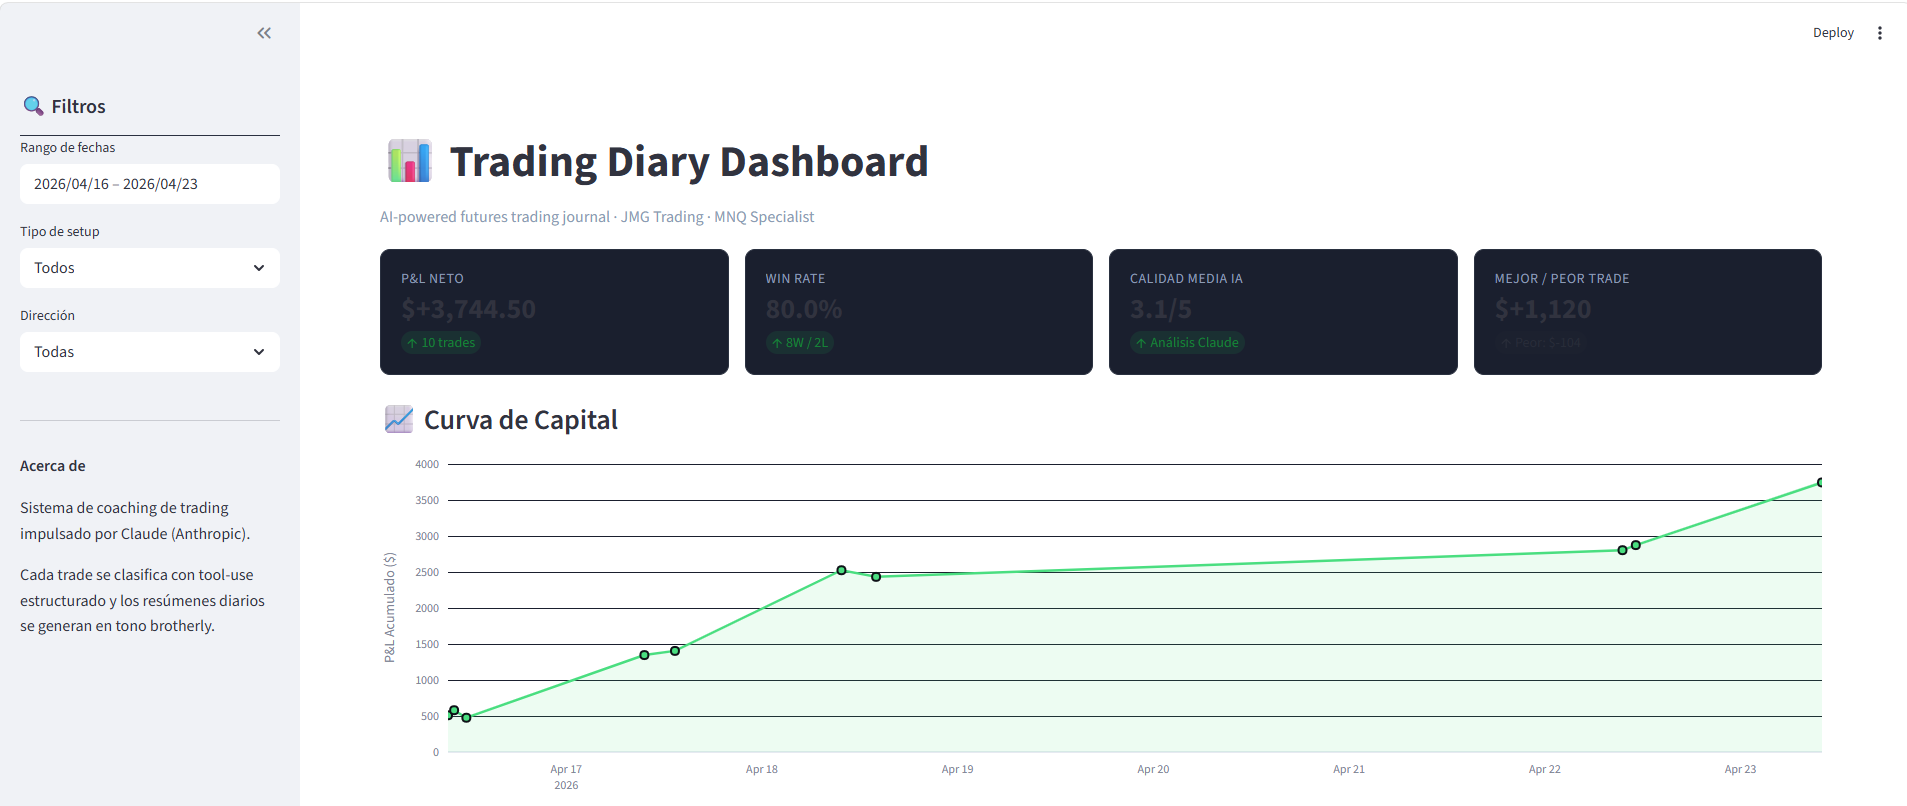
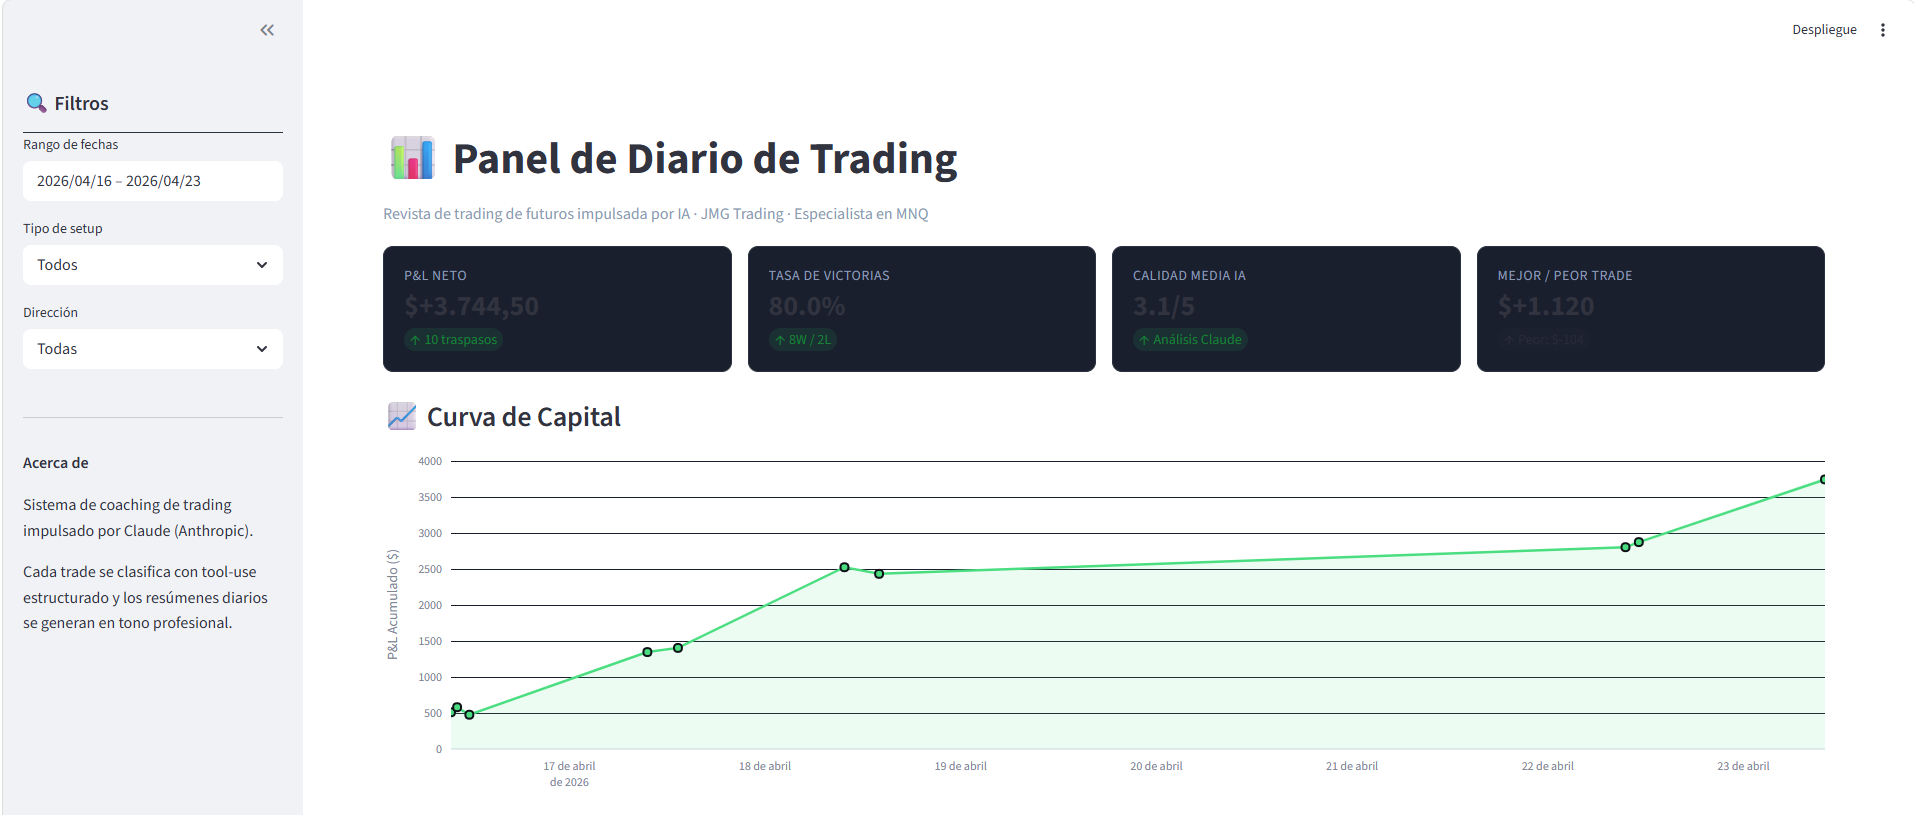
Update dashboard sidebar text to professional tone and refresh screenshot

diff --git a/dashboard.py b/dashboard.py
@@ -149,7 +149,7 @@ st.sidebar.markdown(
     "**Acerca de**\n\n"
     "Sistema de coaching de trading impulsado por Claude (Anthropic).\n\n"
     "Cada trade se clasifica con tool-use estructurado y los resúmenes diarios "
-    "se generan en tono brotherly."
+    "se generan en tono profesional."
 )
 
 # Apply filters